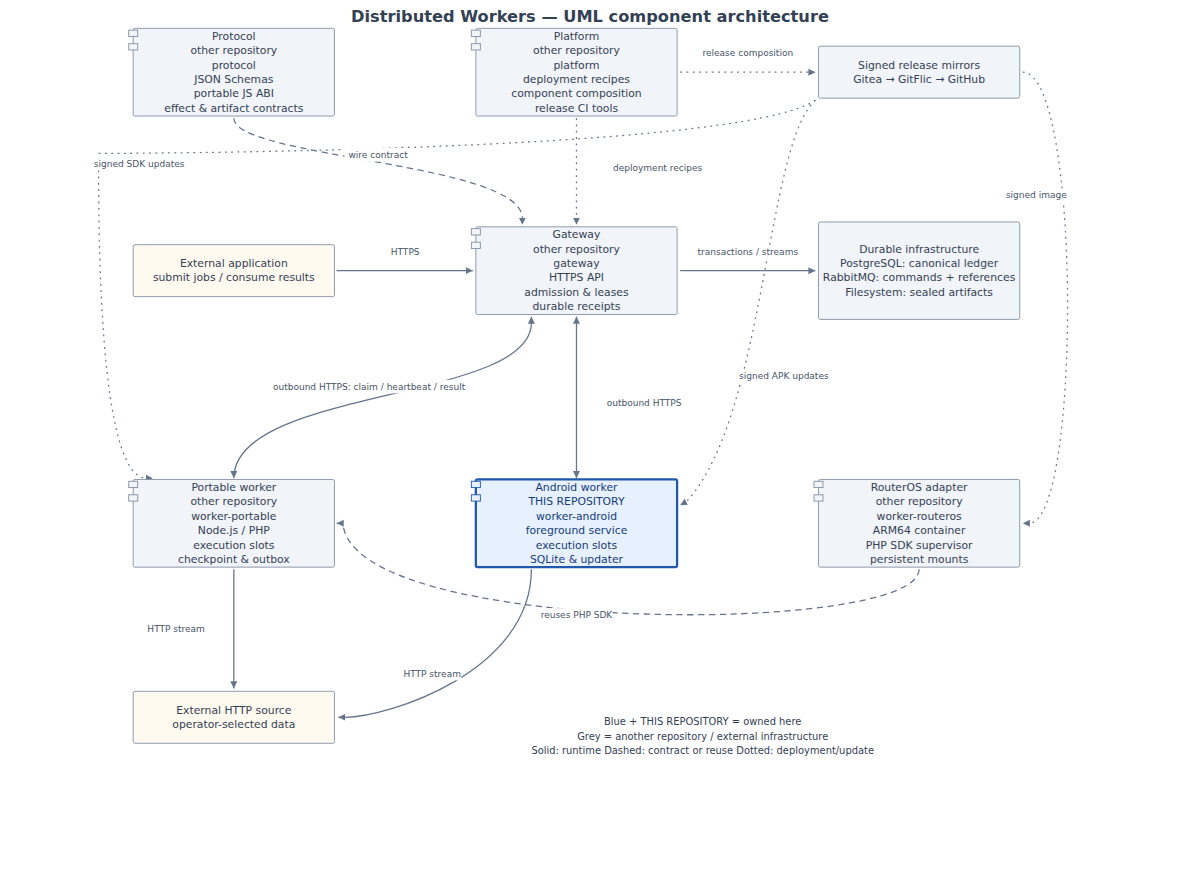
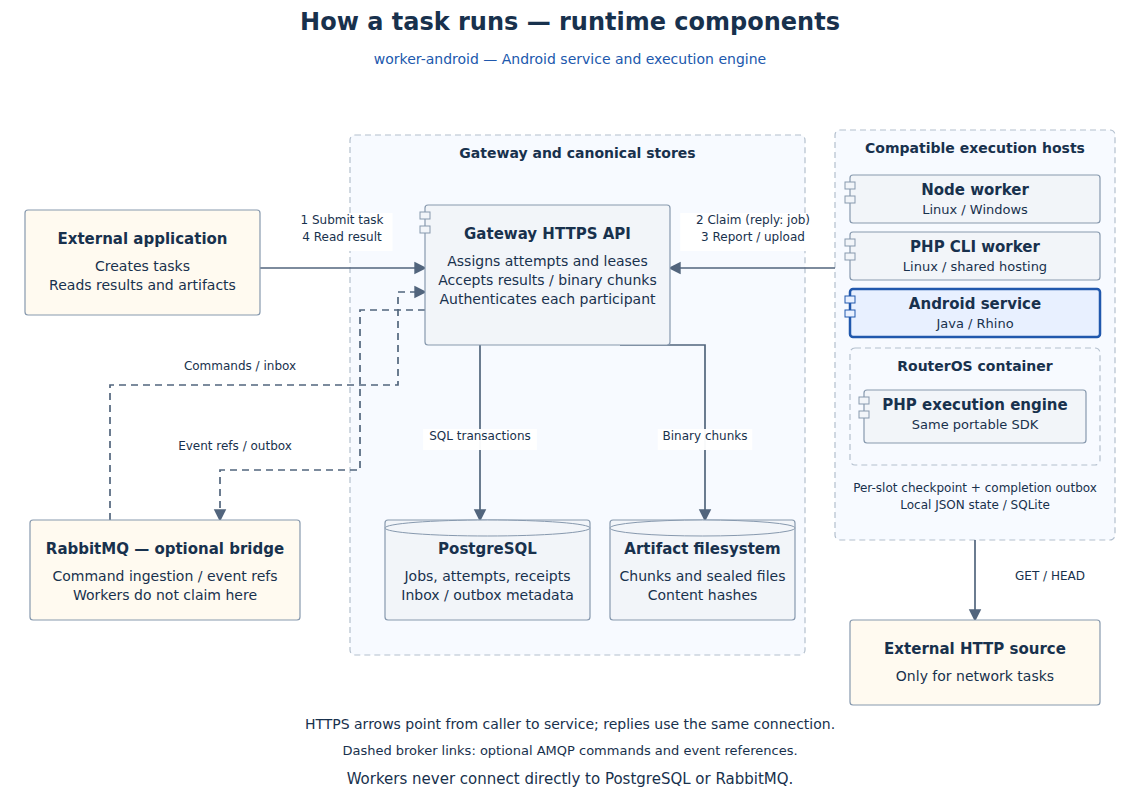
Separate runtime task flow from UML repository dependencies
Show HTTPS pull, PostgreSQL scheduling, optional AMQP and binary storage separately from source/release dependencies. Represent RouterOS as a container with a local PHP engine, identify non-runtime packages, and validate routes and ownership.

diff --git a/README.md b/README.md
@@ -6,17 +6,30 @@ service (`specialUse`) and restarts through BOOT_COMPLETED/MY_PACKAGE_REPLACED.
 The APK contains no native libraries and runs on the verified ARM32 TV.
 
 <!-- fleet-architecture:start -->
-## Architecture and repository boundary
+## Architecture
 
-![Shared UML component architecture; worker-android is highlighted](docs/architecture.png)
+### How a task runs
 
-All six repositories show the same system. **Blue and “THIS REPOSITORY” identify the component owned here**; grey boxes show sibling repositories or external infrastructure. Solid arrows carry runtime traffic, dashed arrows show contracts or reuse, and dotted arrows show deployment or updates. The protocol applies to the gateway and both execution SDKs; deployment arrows show the principal composition entry points.
+![Runtime task flow, API callers and durable stores](docs/architecture.png)
+
+1. An external application submits a task to the gateway API.
+2. A compatible worker claims it; the API assigns a fenced attempt in PostgreSQL and returns the task. The worker renews its lease while running.
+3. The worker uploads binary output and submits its result. Gateway acknowledgements confirm persisted state.
+4. The application reads the canonical result and downloads referenced artifacts.
+
+Workers initiate HTTPS connections. PostgreSQL schedules claims and stores canonical execution state. RabbitMQ is an optional command/event bridge; workers do not pull their tasks from it. The four adapter boxes show implementation types, not a machine count.
+
+### Where this repository fits
+
+![UML package dependencies; this repository is blue](docs/repositories.png)
+
+The **blue package labelled THIS REPOSITORY** is owned here. Dashed arrows point from a package to the contract, SDK or release bundle it uses; they do not represent network calls. `protocol` and `platform` are source/tooling packages, not running services. RouterOS packages the PHP SDK inside its own container rather than calling a separate PHP service.
 
 This repository owns the Android foreground service, Java/Rhino execution adapter, SQLite checkpoint/outbox, resource and power admission, and signed APK updates. Android calls the gateway over outgoing HTTPS; it does not run PostgreSQL or RabbitMQ.
 
 Implementation: [service](app/src/main/java/local/hwak/fleetworker/WorkerService.java), [resource admission](app/src/main/java/local/hwak/fleetworker/Admission.java), [Java sources](app/src/main/java/local/hwak/fleetworker/).
 
-[SVG source](docs/architecture.svg) · [Editable DOT source](docs/architecture.dot). The common model and Python-only SVG renderer live in [platform](https://gitflic.ru/project/distributed-workers/platform). From its checkout, `python3 -B tools/render-architecture.py --workspace ../.. --png` regenerates every ownership view in a workspace containing `repos/<component>`. PNG previews work on forges that serve SVG as text. SVG generation uses Python alone; PNG rendering uses a local Chromium browser. No diagram service or production configuration is needed.
+Editable sources: [runtime SVG](docs/architecture.svg), [runtime DOT](docs/architecture.dot), [repository SVG](docs/repositories.svg), [repository DOT](docs/repositories.dot). Both view families come from the shared model in [platform](https://gitflic.ru/project/distributed-workers/platform); each repository changes only the ownership highlight. PNG previews display on all three forges. Regenerate with `python3 -B tools/render-architecture.py --workspace ../.. --png` from the platform checkout. SVG needs Python alone; PNG needs local Chromium and Pillow.
 <!-- fleet-architecture:end -->
 
 ## Build
